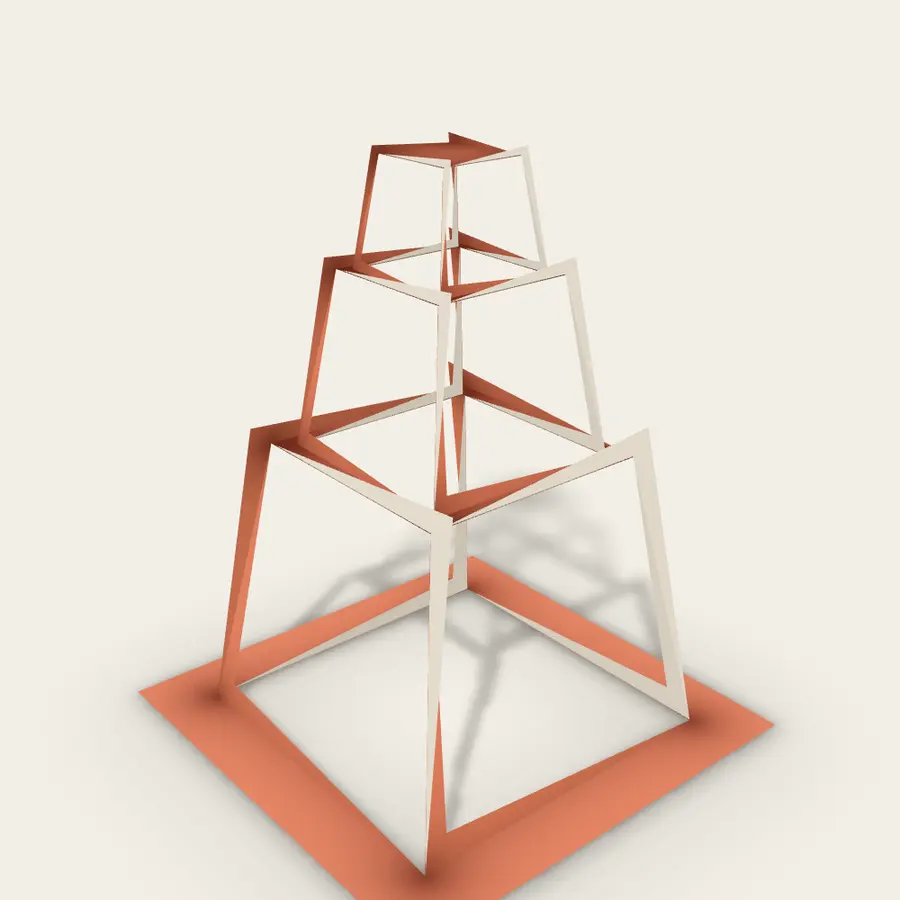
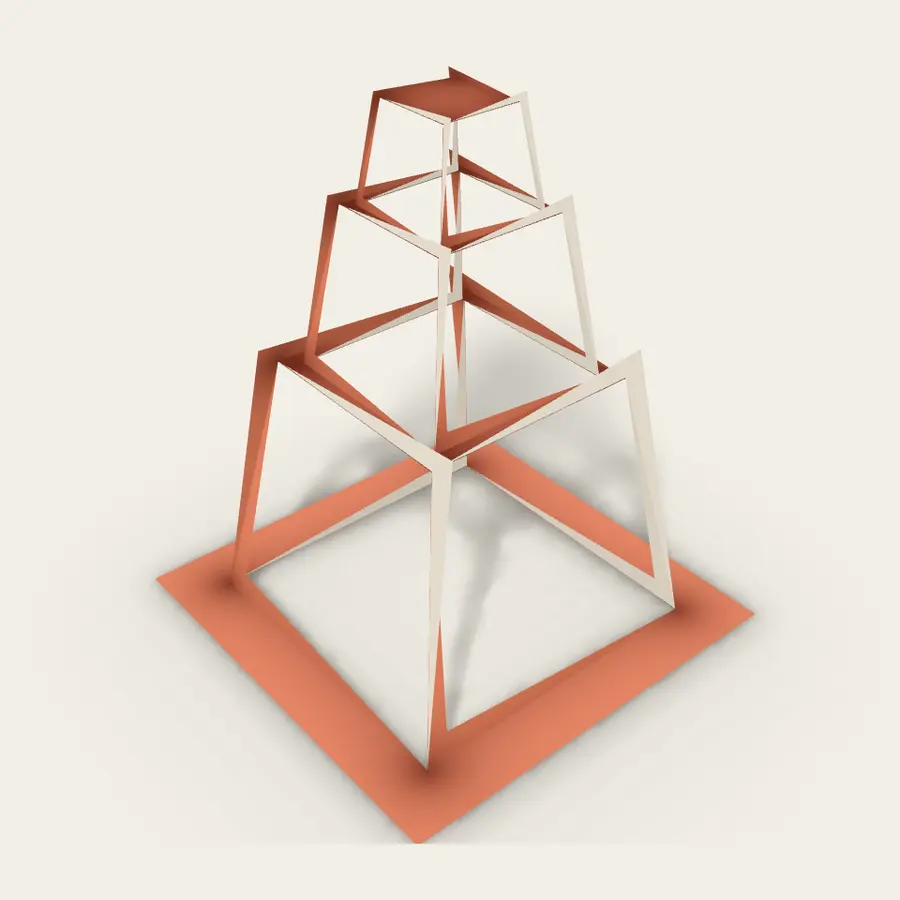
GKOS 概要: RES 三段の画像を再撮影（基盤の切れを修正）、陰影の節を追加
- res4 の3枚（伸び100%・エネルギー・歪み）を引きの構図で再撮影
- 陰影: RES 球面・三段塔の柔らかな接地影、ミウラ折りの擬似AO なし／あり
- 導入カードのサムネイルを新しい塔の画像から切り出し

Claude-Session: https://claude.ai/code/session_017BgmSxQ6ngmyTwipVbwMka

Changed region(s): [[0.1556, 0.0622, 0.8711, 1.0]]

diff --git a/gkos/index.html b/gkos/index.html
@@ -163,6 +163,35 @@
     </div>
   </section>
 
+  <!-- ===== SHADING（陰影の深化） ===== -->
+  <section class="gk-section fade-in delay-3" aria-labelledby="gk-shading">
+    <h2 class="gk-heading" id="gk-shading"><span class="ja">陰影</span><span class="en">Shading</span></h2>
+    <div class="gk-prose">
+      <p class="ja">紙の立体らしさは陰影で決まります。GKOS は、折線の角度から解析的に求める擬似AO（谷の奥ほど暗くなる陰）と、設置面に落ちる柔らかな影を重ねて、模型の奥行きを表します。</p>
+      <p class="en">Paper forms read through their shading. GKOS layers pseudo ambient occlusion, computed analytically from the fold angles so that valleys darken toward their depths, with soft shadows cast on the ground, to convey the depth of a model.</p>
+    </div>
+    <div class="gk-shade">
+      <figure class="gk-shade-main">
+        <img src="media/shade_res_sphere_soft.webp" width="1280" height="720" loading="lazy" alt="RES sphere casting a soft shadow on the ground / 柔らかな影を地面に落とす RES 球面">
+        <figcaption><span class="ja">RES 球面 — 曲線の切れ目から漏れる光と、ボケを持った影が地面に落ちる</span><span class="en">RES sphere &mdash; light through the curved slits, and a soft-edged shadow on the ground</span></figcaption>
+      </figure>
+      <figure class="gk-shade-main">
+        <img src="media/shade_res_tower_soft.webp" width="1280" height="720" loading="lazy" alt="Three-tier RES tower casting a soft shadow / 柔らかな影を落とす RES 三段の塔">
+        <figcaption><span class="ja">RES 三段の塔 — 細い枠の影が、柔らかくボケて基盤と地面に映る</span><span class="en">Three-tier RES tower &mdash; the thin frames cast soft, blurred shadows on the base and the ground</span></figcaption>
+      </figure>
+      <div class="gk-shade-pair">
+        <figure>
+          <img src="media/shade_miura_no_ao.webp" width="1280" height="720" loading="lazy" alt="Miura-ori without pseudo AO / 擬似AO なしのミウラ折り">
+          <figcaption><span class="ja">擬似AO なし</span><span class="en">Without pseudo AO</span></figcaption>
+        </figure>
+        <figure>
+          <img src="media/shade_miura_ao.webp" width="1280" height="720" loading="lazy" alt="Miura-ori with pseudo AO / 擬似AO ありのミウラ折り">
+          <figcaption><span class="ja">擬似AO あり — 谷折りの奥が沈み、凹凸が読める</span><span class="en">With pseudo AO &mdash; valleys recede and the relief becomes legible</span></figcaption>
+        </figure>
+      </div>
+    </div>
+  </section>
+
   <!-- ===== INTERFACE ===== -->
   <section class="gk-section fade-in delay-3" aria-labelledby="gk-ui">
     <h2 class="gk-heading" id="gk-ui"><span class="ja">画面</span><span class="en">Interface</span></h2>

diff --git a/gkos/page.css b/gkos/page.css
@@ -214,6 +214,35 @@ html[data-lang="en"] .gk-features dt {
   border: 1px solid #2a2a2a;
 }
 
+/* ---------- Shading ---------- */
+.gk-shade {
+  display: grid;
+  grid-template-columns: repeat(2, minmax(0, 1fr));
+  gap: 1.5rem 1rem;
+  margin-top: 1.5rem;
+}
+
+.gk-shade-pair {
+  grid-column: 1 / -1;
+  display: grid;
+  grid-template-columns: repeat(2, minmax(0, 1fr));
+  gap: 1rem;
+}
+
+.gk-shade img {
+  display: block;
+  width: 100%;
+  height: auto;
+  border: 1px solid #2a2a2a;
+}
+
+.gk-shade figcaption {
+  margin-top: 0.6rem;
+  font-size: 0.8rem;
+  line-height: 1.7;
+  color: var(--muted);
+}
+
 /* ---------- Interface ---------- */
 .gk-ui {
   display: grid;
@@ -263,6 +292,7 @@ html[data-lang="en"] .gk-features dt {
 
 @media (max-width: 640px) {
   .gk-gallery,
+  .gk-shade,
   .gk-ui {
     grid-template-columns: minmax(0, 1fr);
   }
